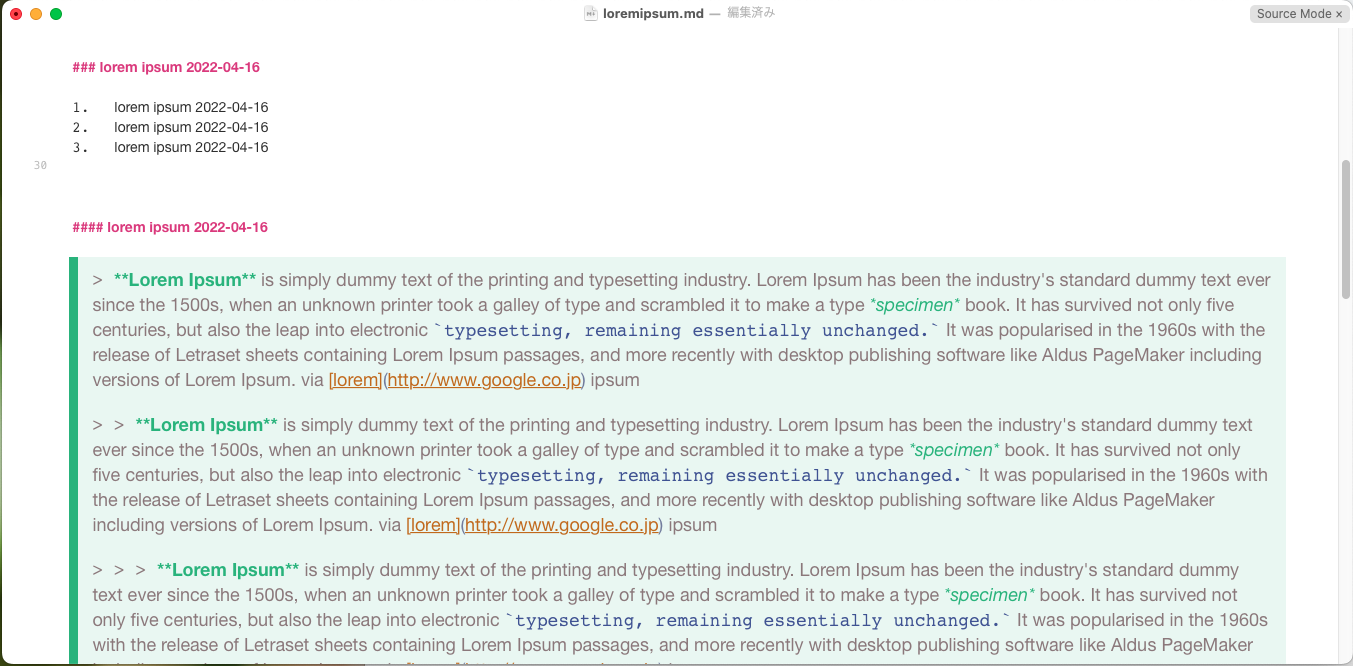
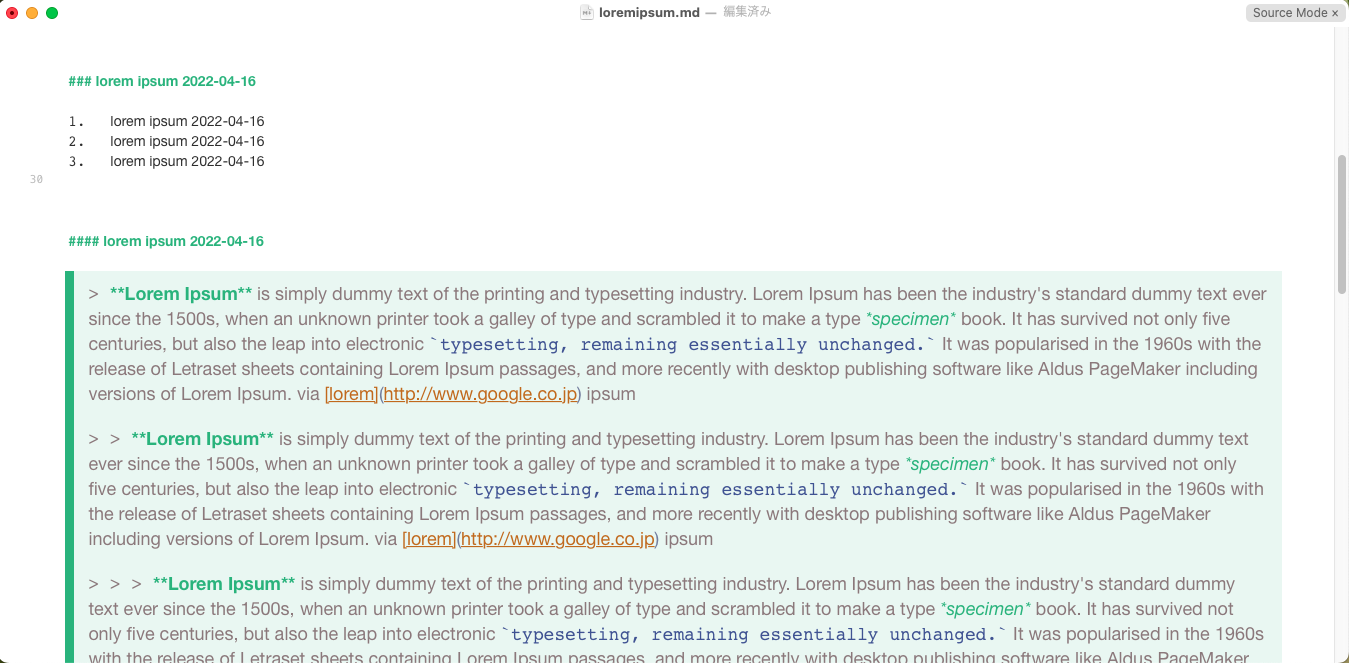
change source-mode header colore to green

diff --git a/relaxx.css b/relaxx.css
@@ -121,3 +121,7 @@ table td:last-child {
 #typora-source .CodeMirror-lines {
   max-width: 99%;
 }
+
+#typora-source .cm-header {
+    color: var(--badgeTipColor);
+}
